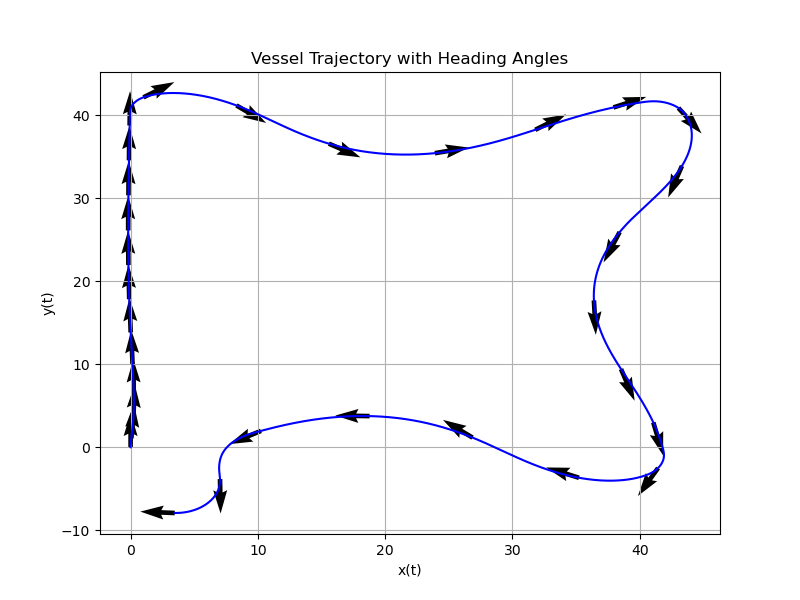
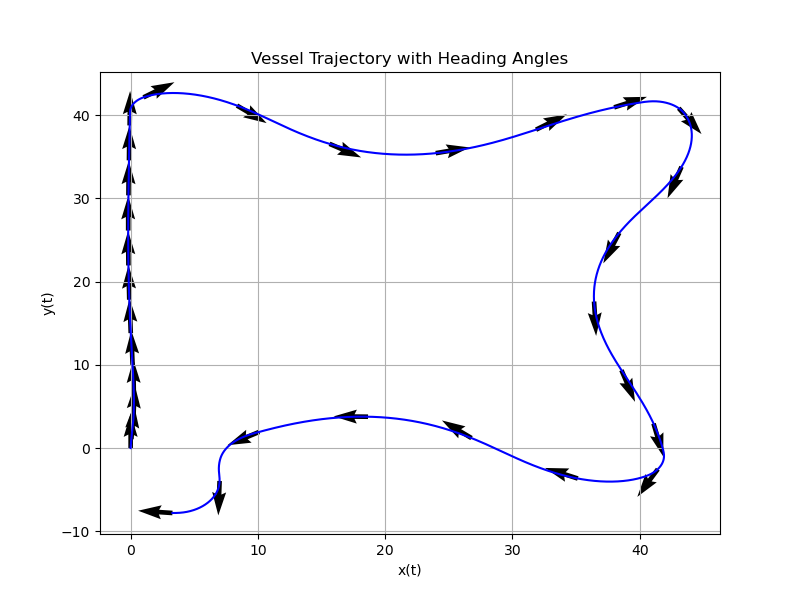
MPC not working, stuck at 0 values

diff --git a/src/Control/MPC_control_alloc.cpp b/src/Control/MPC_control_alloc.cpp
@@ -1,0 +1,151 @@
+#include <vector>
+#include <Eigen/Dense>
+#include "Models/ran.hpp"
+#include "Models/model_utilities.hpp"
+#include <casadi/casadi.hpp>
+
+using namespace casadi;
+
+std::vector<double> MPC_control_alloc(double tau_X, double tau_Y, double tau_N,
+                                      double U, double T_n, double T_alpha,
+                                      Eigen::Vector2d n_input, Eigen::Vector2d alpha_input) 
+{
+
+    double horizon = 10.0;
+    double delta   =  0.5;
+    int N = static_cast<int>(horizon/delta); 
+
+    Eigen::Vector3d CO_offset = CO_Offset(U);
+    double ly1 =  1.1 - CO_offset(1);    // Left pod lever arm
+    double ly2 = -1.1 + CO_offset(1);    // Right pod lever arm
+    double lx  = -1.1 - CO_offset(0);    // Pod locations in x
+
+    // Constants from ran()
+    double g = 9.81;
+    double k_pos = 200*g;         // Positive Bollard
+    double k_neg = 200*g;         // Negative Bollard
+    double n_max =  1;            // Relative propellar speed max (representing max positive  revs)
+    double n_min = -1;            // Relative propellar speed min (representing max negative revs)
+    double alpha_max = M_PI/2; 
+    double alpha_min = -M_PI/2;
+
+    Opti opti;
+
+    MX n_vars = opti.variable(2, N+1);
+    MX alpha_vars = opti.variable(2, N+1);
+
+    MX n_cmd = opti.variable(2, N);
+    MX alpha_cmd = opti.variable(2, N);
+
+    // Initial values; 
+    opti.subject_to(n_vars(Slice(), 0) ==
+    DM::vertcat(std::vector<DM>{DM(n_input(0)), DM(n_input(1))}));
+    opti.subject_to(alpha_vars(Slice(), 0) ==
+    DM::vertcat(std::vector<DM>{DM(alpha_input(0)), DM(alpha_input(1))}));
+
+    // Constraint on change in n and alpha
+    for (int k = 1; k < N; ++k) {
+        MX n_next = n_vars(Slice(), k) + (delta/T_n) * (n_cmd(Slice(), k) - n_vars(Slice(), k));
+        opti.subject_to( n_vars(Slice(), k+1) == n_next );
+
+        MX alpha_next = alpha_vars(Slice(), k) + (delta/T_alpha) * (alpha_cmd(Slice(), k) - alpha_vars(Slice(), k));
+        opti.subject_to( alpha_vars(Slice(), k+1) == alpha_next );
+    }
+
+    MX J = 0;
+    
+    // Add regularization terms to improve numerical stability
+    double reg_n_cmd = 0.01;        // Regularization weight for control rate
+    double reg_alpha_cmd = 0.01;    // Regularization weight for control rate
+    double tau_weight = 10.0;       // Weight for error
+    
+    for (int k = 0; k < N; ++k) {
+        MX n1 = n_vars(0, k+1);
+        MX n2 = n_vars(1, k+1);
+        MX alpha1 = alpha_vars(0, k+1);
+        MX alpha2 = alpha_vars(1, k+1);
+
+        // Calculate thrusts
+        MX Thrust1 = if_else(n1 >= 0, k_pos * n1 * fabs(n1), k_neg * n1 * fabs(n1));
+        MX Thrust2 = if_else(n2 >= 0, k_pos * n2 * fabs(n2), k_neg * n2 * fabs(n2));
+
+        // Mapping to forces and moments (From ran())
+        MX tau_X_model = Thrust1 * cos(alpha1) + Thrust2 * cos(alpha2);
+        MX tau_Y_model = Thrust1 * sin(alpha1) + Thrust2 * sin(alpha2);
+        MX tau_N_model = lx * (Thrust1*sin(alpha1) + Thrust2*sin(alpha2))
+                        -(ly1*Thrust1*cos(alpha1) + ly2*Thrust2*cos(alpha2));
+        
+        // Error cost
+        J = J + tau_weight * (pow(tau_X - tau_X_model, 2) + 
+                           pow(tau_Y - tau_Y_model, 2) + 
+                           pow(tau_N - tau_N_model, 2));
+        
+        if (k > 0) {
+            // Penalize control rate changes
+            J = J + reg_n_cmd * (pow(n_cmd(0, k) - n_cmd(0, k-1), 2) + 
+                              pow(n_cmd(1, k) - n_cmd(1, k-1), 2));
+            J = J + reg_alpha_cmd * (pow(alpha_cmd(0, k) - alpha_cmd(0, k-1), 2) + 
+                                  pow(alpha_cmd(1, k) - alpha_cmd(1, k-1), 2));
+        }
+    }
+
+    // Optimization:
+    opti.minimize(J);
+
+    // Add constraints
+    for (int k = 0; k < N; ++k) {
+        // Control bounds
+        opti.subject_to( n_cmd(Slice(), k) <= DM({n_max, n_max}) );
+        opti.subject_to( n_cmd(Slice(), k) >= DM({n_min, n_min}) );
+        opti.subject_to( alpha_cmd(Slice(), k) <= DM({alpha_max, alpha_max}) );
+        opti.subject_to( alpha_cmd(Slice(), k) >= DM({alpha_min, alpha_min}) );
+    }
+    for (int k = 1; k <= N; ++k) {
+        // State bounds
+        opti.subject_to( n_vars(Slice(), k) <= DM({n_max, n_max}) );
+        opti.subject_to( n_vars(Slice(), k) >= DM({n_min, n_min}) );
+        opti.subject_to( alpha_vars(Slice(), k) <= DM({alpha_max, alpha_max}) );
+        opti.subject_to( alpha_vars(Slice(), k) >= DM({alpha_min, alpha_min}) );
+    }
+
+    // Set initial guesses for optimization variables
+    opti.set_initial(n_vars, repmat(DM::vertcat({n_input(0), n_input(1)}), 1, N+1));
+    opti.set_initial(alpha_vars, repmat(DM::vertcat({alpha_input(0), alpha_input(1)}), 1, N+1));
+    opti.set_initial(n_cmd, repmat(DM::vertcat({n_input(0), n_input(1)}), 1, N));
+    opti.set_initial(alpha_cmd, repmat(DM::vertcat({alpha_input(0), alpha_input(1)}), 1, N));
+
+    // Configure solver options
+    Dict solver_opts;
+    solver_opts["print_time"] = 0;
+    solver_opts["ipopt.print_level"] = 0;
+    solver_opts["ipopt.max_iter"] = 500;  // Increase max iterations
+    solver_opts["ipopt.tol"] = 1e-4;      // Loosen tolerance
+    solver_opts["ipopt.acceptable_tol"] = 1e-3;
+    solver_opts["ipopt.acceptable_iter"] = 5;
+    solver_opts["ipopt.hessian_approximation"] = "limited-memory"; // For large-scale problems
+    opti.solver("ipopt", solver_opts);
+
+
+    try {
+        OptiSol sol = opti.solve();
+
+        // Extract solution
+        DM n_cmd_sol = opti.value(n_cmd);
+        DM alpha_cmd_sol = opti.value(alpha_cmd);
+
+        double n1_opt     = double(n_cmd_sol(0, 0));
+        double n2_opt     = double(n_cmd_sol(1, 0));
+        double alpha1_opt = double(alpha_cmd_sol(0, 0));
+        double alpha2_opt = double(alpha_cmd_sol(1, 0));
+
+        return {n1_opt, alpha1_opt, n2_opt, alpha2_opt};
+
+    } catch (std::exception &e) {
+        // Handle solver failure gracefully
+        std::cerr << "Optimization failed: " << e.what() << std::endl;
+        
+        // Fallback to simpler allocation method (could use your NLOptControlAlloc here)
+        // For now, just return the current values
+        return {n_input(0), alpha_input(0), n_input(1), alpha_input(1)};
+    }
+}

diff --git a/src/main.cpp b/src/main.cpp
@@ -11,6 +11,7 @@
 #include "Control/control_alloc_selector.hpp"
 #include "Control/PID_position_motion_control.hpp"
 #include "Control/PID_heading_motion_control.hpp"
+#include "Control/MPC_control_alloc.hpp"
 #include "Control/non_lin_constrained_control_alloc.hpp"
 
 #include "Guidance/guidance_selector.hpp"
@@ -262,7 +263,9 @@ int main() {
                 control_allocation = NLOptControlAlloc(tau_XYN[0], tau_XYN[1], tau_XYN[2], U);
             }
             else {
-                //MPC control alloc
+                control_allocation = MPC_control_alloc(tau_XYN[0], tau_XYN[1], tau_XYN[2],
+                                                       U, T_n, T_alpha,
+                                                       n, alpha);
             }
             n_c     = {control_allocation[0], control_allocation[2]};
             alpha_c = {control_allocation[1], control_allocation[3]};
@@ -277,7 +280,9 @@ int main() {
                 control_allocation = NLOptControlAlloc(tau_XYN[0], tau_XYN[1], tau_XYN[2], U);
             }
             else {
-                //MPC control alloc
+                control_allocation = MPC_control_alloc(tau_XYN[0], tau_XYN[1], tau_XYN[2],
+                                                       U, T_n, T_alpha,
+                                                       n, alpha);
             }
             n_c     = {control_allocation[0], control_allocation[2]};
             alpha_c = {control_allocation[1], control_allocation[3]};

diff --git a/include/Models/ran.hpp b/include/Models/ran.hpp
@@ -10,7 +10,7 @@ void ran(const Eigen::VectorXd x, const Eigen::VectorXd n_input, const Eigen::Ve
     Eigen::VectorXd &xdot, double &U, Eigen::MatrixXd &M_out, Eigen::MatrixXd &B);
 
 // Specialized RK4 integrator for the RAN model
-void rk4_ran_step(Eigen::VectorXd& x, const Eigen::VectorXd& n, const Eigen::VectorXd& alpha,
+void rk4_ran_step(Eigen::VectorXd& x, const Eigen::VectorXd n, const Eigen::VectorXd alpha,
                     double mp, double V_c, double beta_c, double h);
                     
 #endif // RAN_HPP

diff --git a/src/Models/ran.cpp b/src/Models/ran.cpp
@@ -417,7 +417,7 @@ void ran(const Eigen::VectorXd x, const Eigen::VectorXd n_input, const Eigen::Ve
 
 
 // Specialized RK4 integrator for the RAN model. 
-void rk4_ran_step(Eigen::VectorXd& x, const Eigen::VectorXd& n, const Eigen::VectorXd& alpha,
+void rk4_ran_step(Eigen::VectorXd& x, const Eigen::VectorXd n, const Eigen::VectorXd alpha,
                   double mp, double V_c, double beta_c, double h) {
 
     // Initialize output variables

diff --git a/include/Control/MPC_control_alloc.hpp b/include/Control/MPC_control_alloc.hpp
@@ -1,0 +1,11 @@
+#ifndef MPC_CONTROL_ALLOC_HPP
+#define MPC_CONTROL_ALLOC_HPP
+
+#include <vector>
+#include <Eigen/Dense>
+
+std::vector<double> MPC_control_alloc(double tau_X, double tau_Y, double tau_N,
+    double U, double T_n, double T_alpha,
+    Eigen::Vector2d n_input, Eigen::Vector2d alpha_input);
+
+#endif
